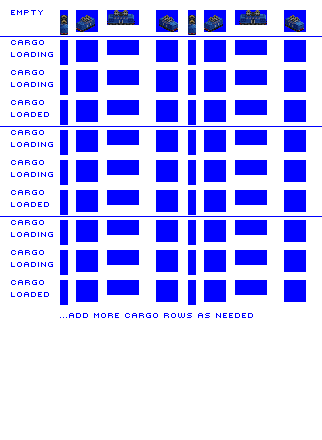
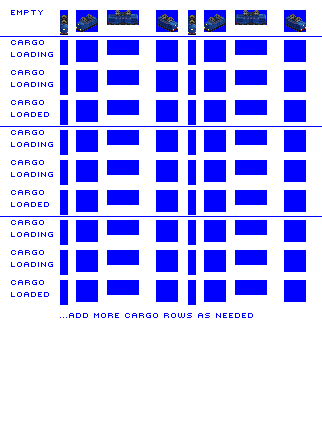
Change: new graphics and specs for Raven electric (closes #6457)

diff --git a/src/vehicles/raven.py b/src/vehicles/raven.py
@@ -8,13 +8,13 @@ vehicle = ElectricLoco(id = 'raven',
             buy_cost = 22,
             fixed_run_cost_factor = 3.5,
             fuel_run_cost_factor = 1.0,
-            speed = 45,
-            power = 1100,
-            weight = 74,
-            vehicle_length = 7,
+            speed = 80,
+            power = 1800,
+            weight = 120,
+            vehicle_length = 8,
             buy_menu_width = 32,
             loading_speed = 20,
-            intro_date = 1914,
+            intro_date = 1919,
             str_type_info = 'COASTER',
             vehicle_life = 40,
             graphics_status = '',)
